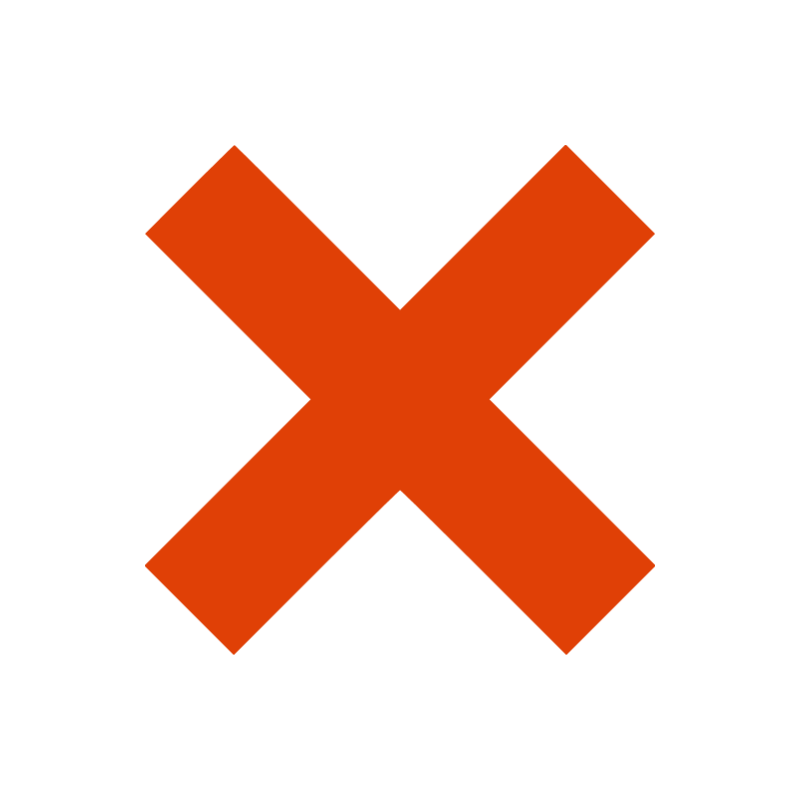
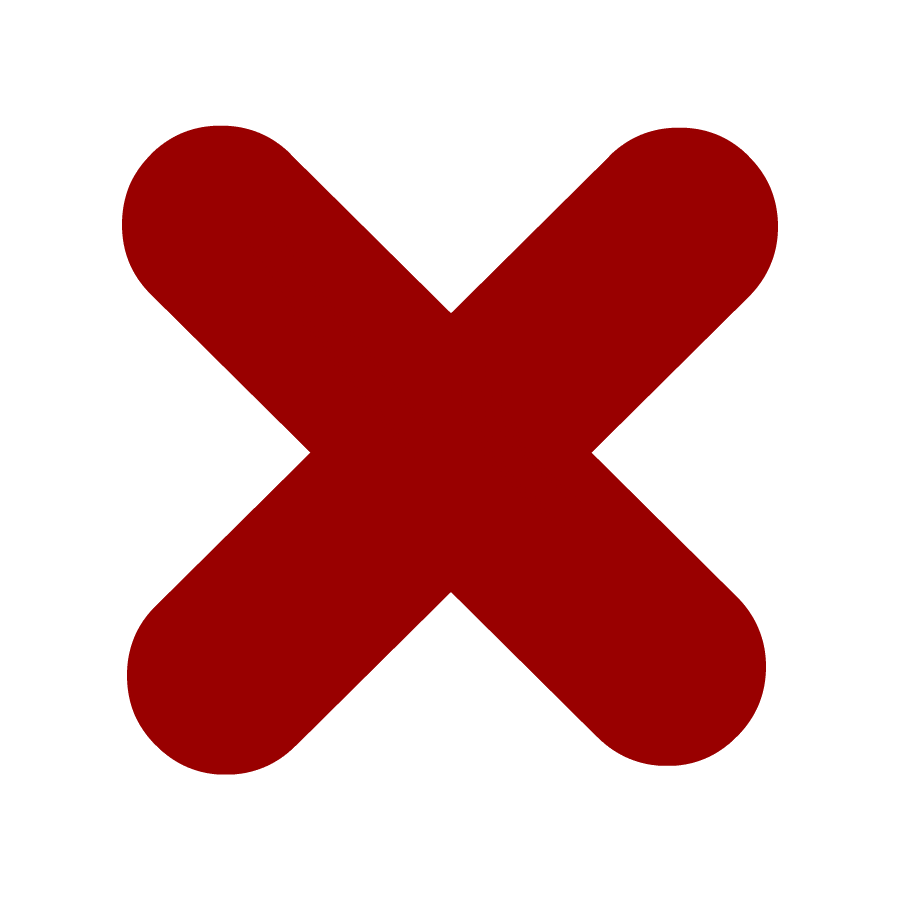
minimum disclosure symbols colors changed

diff --git a/public/javascript/misc/util.js b/public/javascript/misc/util.js
@@ -264,8 +264,8 @@ function cell(t,g,j,k){
                 .style("font",function(){if(experimentr.data()['os']=="MacOS"){return "16px Monaco";}if(experimentr.data()['os']=="Linux"){return "16px Lucida Sans Typewriter";}return "16px Lucida Console";})
                 .attr("fill",function(){
                     //if(t_j.length!=t_jj.length){return "black";}
-                    if(scheme[l]==1 && j<2*cwidth.length){return"red";}
-                    if(scheme[l]==1 && j>2*cwidth.length){return "blue";}
+                    if(scheme[l]==1 && j<2*cwidth.length){return "#9b3d18";}
+                    if(scheme[l]==1 && j>2*cwidth.length){return "#0945a5";}
                     return "black";})
                 .text(t[l]);
         }
